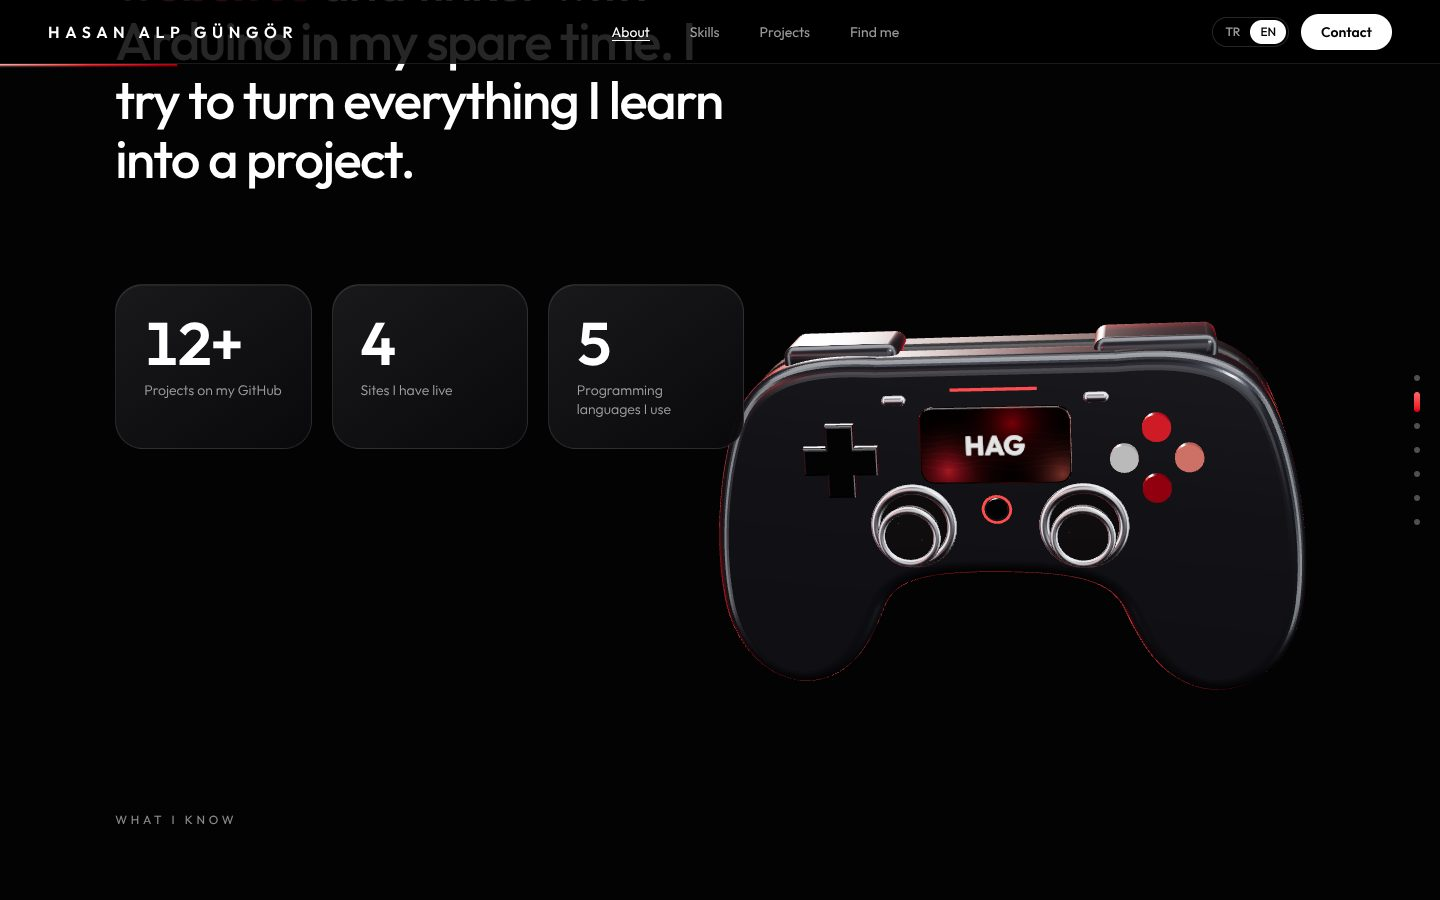
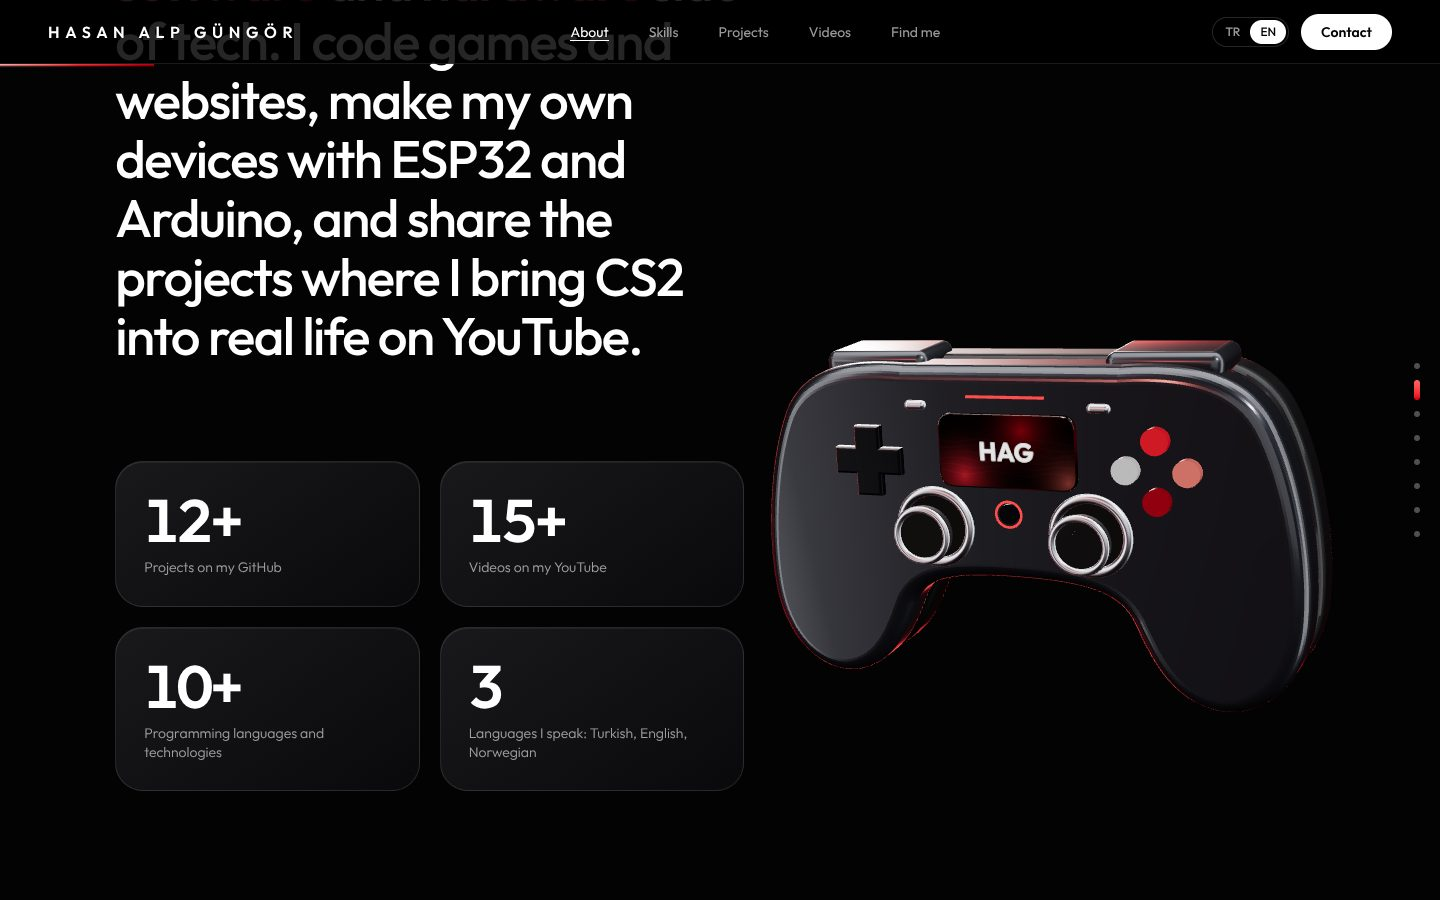
Videolarım bölümü, gerçek yetenekler ve yeni projeler
Hakkımda yazısı ve yetenekler LinkedIn profiline göre güncellendi. YouTube videoları için yeni bölüm eklendi; Norveç Milli Takımı web konsepti ve Mağaza Satış Analiz Programı projelere eklendi.

diff --git a/lib/data.ts b/lib/data.ts
@@ -83,6 +83,17 @@ export interface Project {
 
 export const PROJECTS: Project[] = [
   {
+    name: 'Norway National Team Web Concept',
+    href: `${LINKS.linkedin}recent-activity/all/`,
+    tag: { tr: 'Web tasarım', en: 'Web design' },
+    text: {
+      tr: 'Norveç Milli Futbol Takımı\'nın dijital kimliğini yeniden düşündüğüm bir web sitesi konsepti.',
+      en: 'A website concept where I reimagined the digital identity of the Norwegian national football team.',
+    },
+    stack: ['Web Design', 'UI'],
+    accent: '#ef4444',
+  },
+  {
     name: 'CS2 Major HUD',
     href: `${GH}/CounterStrike2MajorHUD`,
     tag: { tr: 'Oyun · Yayın', en: 'Games · Broadcast' },
@@ -126,6 +137,17 @@ export const PROJECTS: Project[] = [
     stack: ['Batch', 'Windows'],
     accent: '#fca5a5',
   },
+  {
+    name: 'Mağaza Satış Analiz Programı',
+    href: `${LINKS.youtube}/search?query=${encodeURIComponent('Mağaza Satış Analiz')}`,
+    tag: { tr: 'Masaüstü', en: 'Desktop' },
+    text: {
+      tr: 'C# programlama temelleri dersi için yazdığım, mağaza satışlarını analiz eden bir program. Anlatım videosu YouTube\'da.',
+      en: 'A program that analyses store sales, written for my C# fundamentals course. The walkthrough is on YouTube.',
+    },
+    stack: ['C#'],
+    accent: '#b91c1c',
+  },
 ];
 
 /** Repos without a public description: listed by name only. */
@@ -138,13 +160,34 @@ export const MORE_REPOS = [
 
 /** One skill per controller part; the Skills section and the 3D labels share this list. */
 export const PARTS = [
-  { id: 'screen', title: { tr: 'Arayüz ve animasyon', en: 'UI and animation' }, text: { tr: 'GSAP, Tailwind CSS', en: 'GSAP, Tailwind CSS' } },
-  { id: 'stickL', title: { tr: 'TypeScript ve React', en: 'TypeScript and React' }, text: { tr: 'Next.js', en: 'Next.js' } },
-  { id: 'stickR', title: { tr: '3D grafik', en: '3D graphics' }, text: { tr: 'Three.js, React Three Fiber', en: 'Three.js, React Three Fiber' } },
-  { id: 'dpad', title: { tr: 'Python ve C#', en: 'Python and C#' }, text: { tr: 'Masaüstü uygulamalar ve araçlar', en: 'Desktop apps and tools' } },
-  { id: 'buttons', title: { tr: 'Oyun geliştirme', en: 'Game development' }, text: { tr: 'itch.io\'da yayınlanan oyunlar', en: 'Games published on itch.io' } },
-  { id: 'pcb', title: { tr: 'Gömülü sistemler', en: 'Embedded systems' }, text: { tr: 'Arduino, sensörler', en: 'Arduino, sensors' } },
+  { id: 'screen', title: { tr: 'Web', en: 'Web' }, text: { tr: 'HTML5, CSS, JavaScript, TypeScript', en: 'HTML5, CSS, JavaScript, TypeScript' } },
+  { id: 'stickL', title: { tr: 'C# ve Java', en: 'C# and Java' }, text: { tr: 'Masaüstü uygulamalar', en: 'Desktop apps' } },
+  { id: 'stickR', title: { tr: '3D ve arayüz', en: '3D and UI' }, text: { tr: 'React, Next.js, Three.js', en: 'React, Next.js, Three.js' } },
+  { id: 'dpad', title: { tr: 'Python ve C++', en: 'Python and C++' }, text: { tr: 'Araçlar ve mikrodenetleyiciler', en: 'Tools and microcontrollers' } },
+  { id: 'buttons', title: { tr: 'Oyun geliştirme', en: 'Game development' }, text: { tr: 'Lua, oyun programlama ve tasarım', en: 'Lua, game programming and design' } },
+  { id: 'pcb', title: { tr: 'Donanım', en: 'Hardware' }, text: { tr: 'ESP32, Arduino, MPU-6050', en: 'ESP32, Arduino, MPU-6050' } },
   { id: 'back', title: { tr: 'Backend', en: 'Backend' }, text: { tr: 'PHP, SQL', en: 'PHP, SQL' } },
 ] as const satisfies readonly { id: string; title: Localized; text: Localized }[];
 
 export type PartId = (typeof PARTS)[number]['id'];
+
+const YT_SEARCH = (q: string) => `${LINKS.youtube}/search?query=${encodeURIComponent(q)}`;
+
+export interface Video {
+  title: Localized;
+  tag: Localized;
+  href: string;
+}
+
+/** A selection from the YouTube channel; each links to a channel search for its title. */
+export const VIDEOS: Video[] = [
+  { title: { tr: 'Gerçek hayatta StatTrak Deagle yaptım', en: 'I made a real-life StatTrak Deagle' }, tag: { tr: 'CS2 × Donanım', en: 'CS2 × Hardware' }, href: YT_SEARCH('stattrak deagle') },
+  { title: { tr: 'CS2 ama bombayı gerçekten imha ediyorum (ESP32 ile)', en: 'CS2, but I really defuse the bomb (with ESP32)' }, tag: { tr: 'CS2 × ESP32', en: 'CS2 × ESP32' }, href: YT_SEARCH('bombayı gerçekten imha') },
+  { title: { tr: 'CS2 ama gerçekten flash yiyorum', en: 'CS2, but I really get flashed' }, tag: { tr: 'CS2 × Donanım', en: 'CS2 × Hardware' }, href: YT_SEARCH('gerçekten flash') },
+  { title: { tr: 'Akıllı airsoft hedefi yaptım (ESP32 ile)', en: 'I built a smart airsoft target (with ESP32)' }, tag: { tr: 'ESP32', en: 'ESP32' }, href: YT_SEARCH('airsoft hedefi') },
+  { title: { tr: 'Kendi ambilight\'ımı yaptım (ESP32 ile)', en: 'I built my own Ambilight (with ESP32)' }, tag: { tr: 'ESP32', en: 'ESP32' }, href: YT_SEARCH('ambilight') },
+  { title: { tr: 'Assetto Corsa\'ya gerçek radyo bağladım', en: 'I connected a real radio to Assetto Corsa' }, tag: { tr: 'Simülasyon × Donanım', en: 'Sim racing × Hardware' }, href: YT_SEARCH('assetto corsa radyo') },
+  { title: { tr: 'Major arayüzünü kodladım', en: 'I coded a Major broadcast HUD' }, tag: { tr: 'CS2 × Yazılım', en: 'CS2 × Software' }, href: YT_SEARCH('major arayüzü') },
+  { title: { tr: 'AK-47 ile CS2 oynadım', en: 'I played CS2 with an AK-47' }, tag: { tr: 'CS2', en: 'CS2' }, href: YT_SEARCH('AK-47 ile CS2') },
+  { title: { tr: 'Tüm oyunlar için tek tuşla DLSS 5 kurulumu', en: 'One-click DLSS 5 setup for every game' }, tag: { tr: 'Rehber', en: 'Guide' }, href: YT_SEARCH('DLSS 5') },
+];

diff --git a/components/Videos.tsx b/components/Videos.tsx
@@ -1,0 +1,58 @@
+'use client';
+
+import { ArrowIcon, YouTubeIcon } from '@/components/Icons';
+import { LINKS, VIDEOS } from '@/lib/data';
+import { useT } from '@/lib/i18n';
+
+export default function Videos() {
+  const t = useT();
+
+  return (
+    <section id="videos" className="sg-ambient amb-red relative z-10 bg-[#030303] px-6 lg:px-[8%] py-24 lg:py-36">
+      <div className="max-w-7xl mx-auto grid lg:grid-cols-[minmax(0,5fr)_minmax(0,7fr)] gap-10 lg:gap-16">
+        <div className="lg:sticky lg:top-28 lg:self-start">
+          <p className="sg-eyebrow mb-3 lg:mb-5">{t({ tr: 'Videolarım', en: 'My videos' })}</p>
+          <h2 className="sg-title">
+            {t({ tr: "CS2'yi gerçek hayata ", en: 'Bringing CS2 into ' })}
+            <strong className="sg-ai">{t({ tr: 'taşıyorum.', en: 'real life.' })}</strong>
+          </h2>
+          <p className="sg-lead mt-4 lg:mt-6 max-w-md">
+            {t({
+              tr: "YouTube kanalımda ESP32 ile yaptığım cihazları, CS2'yi gerçek dünyaya bağlayan projelerimi ve oyun rehberlerimi paylaşıyorum.",
+              en: 'On my YouTube channel I share devices I build with ESP32, projects that connect CS2 to the real world, and gaming guides.',
+            })}
+          </p>
+          <a href={LINKS.youtube} target="_blank" rel="noopener noreferrer" className="sg-btn mt-8">
+            <YouTubeIcon className="w-5 h-5" />
+            {t({ tr: 'Kanala git', en: 'Visit the channel' })}
+            <ArrowIcon />
+          </a>
+        </div>
+
+        <ol className="sg-card !rounded-[28px] divide-y divide-white/[0.07] overflow-hidden">
+          {VIDEOS.map((v, i) => (
+            <li key={v.href}>
+              <a
+                href={v.href}
+                target="_blank"
+                rel="noopener noreferrer"
+                className="group flex items-center gap-4 lg:gap-6 px-5 py-4 lg:px-7 lg:py-5 transition-colors hover:bg-white/[0.04]"
+              >
+                <span className="w-6 shrink-0 text-xs tabular-nums text-white/35">{String(i + 1).padStart(2, '0')}</span>
+                <span className="flex-1 min-w-0">
+                  <span className="block text-base lg:text-lg font-medium leading-snug">{t(v.title)}</span>
+                  <span className="block mt-1 text-xs text-red-400/80">{t(v.tag)}</span>
+                </span>
+                <span className="w-9 h-9 shrink-0 rounded-full border border-white/15 flex items-center justify-center text-white/70 transition-all group-hover:bg-red-500 group-hover:border-red-500 group-hover:text-white">
+                  <svg width="10" height="10" viewBox="0 0 14 14" aria-hidden>
+                    <path d="M3 1.5v11l9.5-5.5z" fill="currentColor" />
+                  </svg>
+                </span>
+              </a>
+            </li>
+          ))}
+        </ol>
+      </div>
+    </section>
+  );
+}

diff --git a/components/About.tsx b/components/About.tsx
@@ -10,14 +10,15 @@ gsap.registerPlugin(ScrollTrigger);
 
 /** Words wrapped in *stars* get the gradient. */
 const MANIFESTO: Localized = {
-  tr: "Ben Hasan. İzmir Ekonomi Üniversitesi'nde Bilgisayar Programcılığı okuyorum. *Oyun* geliştiriyorum, *web siteleri* yapıyorum, boş zamanlarımda da Arduino ile bir şeyler kuruyorum. Öğrendiğim her şeyi bir projeye dönüştürmeye çalışıyorum.",
-  en: "I'm Hasan. I study Computer Programming at İzmir University of Economics. I develop *games*, build *websites* and tinker with Arduino in my spare time. I try to turn everything I learn into a project.",
+  tr: "İzmir Ekonomi Üniversitesi'nde Bilgisayar Programcılığı okuyorum ve teknolojinin hem *yazılım* hem *donanım* tarafında projeler üretiyorum. Oyunlar ve web siteleri kodluyorum, ESP32 ve Arduino ile kendi cihazlarımı yapıyorum. YouTube'da da CS2'yi gerçek hayata taşıdığım projelerimi paylaşıyorum.",
+  en: "I study Computer Programming at İzmir University of Economics and build projects on both the *software* and *hardware* side of tech. I code games and websites, make my own devices with ESP32 and Arduino, and share the projects where I bring CS2 into real life on YouTube.",
 };
 
 const STATS: { value: number; suffix?: string; label: Localized }[] = [
   { value: 12, suffix: '+', label: { tr: "GitHub'daki projem", en: 'Projects on my GitHub' } },
-  { value: 4, label: { tr: 'Yayındaki sitem', en: 'Sites I have live' } },
-  { value: 5, label: { tr: 'Kullandığım programlama dili', en: 'Programming languages I use' } },
+  { value: 15, suffix: '+', label: { tr: "YouTube'daki videom", en: 'Videos on my YouTube' } },
+  { value: 10, suffix: '+', label: { tr: 'Programlama dili ve teknoloji', en: 'Programming languages and technologies' } },
+  { value: 3, label: { tr: 'Konuştuğum dil: Türkçe, İngilizce, Norveççe', en: 'Languages I speak: Turkish, English, Norwegian' } },
 ];
 
 function Counter({ value, suffix = '' }: { value: number; suffix?: string }) {
@@ -88,7 +89,7 @@ export default function About() {
           </p>
         </div>
 
-        <div className="mt-16 lg:mt-24 lg:max-w-[52%] grid grid-cols-2 lg:grid-cols-3 gap-3 lg:gap-5">
+        <div className="mt-16 lg:mt-24 lg:max-w-[52%] grid grid-cols-2 gap-3 lg:gap-5">
           {STATS.map((s) => (
             <div key={s.label.en} className="sg-card p-5 lg:p-7 !bg-[#0b0b0d]/80">
               <p className="text-4xl lg:text-6xl font-semibold tracking-[-0.04em]">

diff --git a/components/Channels.tsx b/components/Channels.tsx
@@ -29,7 +29,7 @@ const CHANNELS: {
     handle: '@hasanalpgungor',
     href: LINKS.youtube,
     Icon: YouTubeIcon,
-    text: { tr: 'Videolarımı burada paylaşıyorum.', en: 'This is where I post my videos.' },
+    text: { tr: 'CS2 × donanım projeleri, ESP32 yapımları ve rehberler.', en: 'CS2 × hardware projects, ESP32 builds and guides.' },
     cta: { tr: 'Kanalım', en: 'My channel' },
     glow: 'radial-gradient(70% 70% at 80% 10%, rgba(255, 46, 59, 0.26), transparent 70%)',
     big: true,
@@ -48,7 +48,7 @@ const CHANNELS: {
     handle: 'Hasan Alp Güngör',
     href: LINKS.linkedin,
     Icon: LinkedInIcon,
-    text: { tr: 'Eğitimim ve profesyonel profilim.', en: 'My education and professional profile.' },
+    text: { tr: 'Eğitimim, yeteneklerim ve paylaşımlarım.', en: 'My education, skills and posts.' },
     cta: { tr: 'Profilim', en: 'My profile' },
     glow: 'radial-gradient(70% 70% at 80% 10%, rgba(239, 68, 68, 0.22), transparent 70%)',
   },
@@ -58,7 +58,7 @@ export default function Channels() {
   const t = useT();
 
   return (
-    <section id="channels" className="sg-ambient amb-red relative z-10 bg-[#030303] px-6 lg:px-[8%] py-24 lg:py-36">
+    <section id="channels" className="sg-ambient amb-ember relative z-10 bg-[#030303] px-6 lg:px-[8%] py-24 lg:py-36">
       <div className="max-w-7xl mx-auto">
         <p className="sg-eyebrow mb-3 lg:mb-5">{t({ tr: 'Beni bul', en: 'Find me' })}</p>
         <h2 className="sg-title max-w-3xl">

diff --git a/components/MoreWork.tsx b/components/MoreWork.tsx
@@ -8,7 +8,7 @@ export default function MoreWork() {
   const t = useT();
 
   return (
-    <section id="more" className="sg-ambient amb-ember relative z-10 bg-[#030303] px-6 lg:px-[8%] py-24 lg:py-36">
+    <section id="more" className="sg-ambient amb-red relative z-10 bg-[#030303] px-6 lg:px-[8%] py-24 lg:py-36">
       <div className="max-w-7xl mx-auto">
         <p className="sg-eyebrow mb-3 lg:mb-5">{t({ tr: 'Diğer projelerim', en: 'More projects' })}</p>
         <h2 className="sg-title max-w-3xl">
@@ -17,8 +17,8 @@ export default function MoreWork() {
         </h2>
         <p className="sg-lead mt-4 lg:mt-6 max-w-xl">
           {t({
-            tr: 'Oyun yayınları için arayüzler, Arduino projeleri ve okulda yazdığım uygulamalar.',
-            en: 'Overlays for game broadcasts, Arduino projects and apps I wrote for school.',
+            tr: 'Web konseptleri, oyun yayınları için arayüzler, Arduino projeleri ve okulda yazdığım uygulamalar.',
+            en: 'Web concepts, overlays for game broadcasts, Arduino projects and apps I wrote for school.',
           })}
         </p>
 

diff --git a/components/Hero.tsx b/components/Hero.tsx
@@ -56,7 +56,7 @@ export default function Hero() {
 
       <p className="hero-in hero-in--3 mt-4 md:mt-6 text-base md:text-2xl font-light text-white/70 max-w-[22ch] md:max-w-none">
         {t({ tr: 'Bilgisayar Programcılığı öğrencisiyim. ', en: "I'm a Computer Programming student. " })}
-        <span className="sg-ai font-semibold">{t({ tr: 'Oyun ve web siteleri yapıyorum.', en: 'I make games and websites.' })}</span>
+        <span className="sg-ai font-semibold">{t({ tr: 'Yazılım ve donanım projeleri üretiyorum.', en: 'I build software and hardware projects.' })}</span>
       </p>
 
       <div className="hero-in hero-in--4 mt-7 md:mt-9 flex flex-wrap items-center justify-center gap-3">

diff --git a/app/layout.tsx b/app/layout.tsx
@@ -10,7 +10,7 @@ const siteUrl = process.env.VERCEL_PROJECT_PRODUCTION_URL
 
 const title = 'Hasan Alp Güngör';
 const description =
-  "I'm Hasan Alp Güngör, a Computer Programming student at İzmir University of Economics. I make games and websites. Here are my projects and where to find me.";
+  "I'm Hasan Alp Güngör, a Computer Programming student at İzmir University of Economics, game developer and software enthusiast. I build software and hardware projects and share them on YouTube.";
 
 export const metadata: Metadata = {
   metadataBase: new URL(siteUrl),

diff --git a/app/page.tsx b/app/page.tsx
@@ -14,6 +14,7 @@ import ScrollProgress from '@/components/ScrollProgress';
 import SectionDots from '@/components/SectionDots';
 import Skills from '@/components/Skills';
 import SmoothScroll from '@/components/SmoothScroll';
+import Videos from '@/components/Videos';
 import Work from '@/components/Work';
 
 // WebGL only exists in the browser.
@@ -49,6 +50,7 @@ export default function Home() {
 
         <Work />
         <MoreWork />
+        <Videos />
         <Channels />
         <Contact />
       </main>

diff --git a/lib/sections.ts b/lib/sections.ts
@@ -13,6 +13,7 @@ export const SECTIONS: SectionInfo[] = [
   { id: 'skills', label: { tr: 'Yetenekler', en: 'Skills' }, nav: true },
   { id: 'work', label: { tr: 'Projelerim', en: 'Projects' }, nav: true },
   { id: 'more', label: { tr: 'Diğer projelerim', en: 'More projects' } },
+  { id: 'videos', label: { tr: 'Videolarım', en: 'Videos' }, nav: true },
   { id: 'channels', label: { tr: 'Beni bul', en: 'Find me' }, nav: true },
   { id: 'contact', label: { tr: 'İletişim', en: 'Contact' } },
 ];

diff --git a/README.md b/README.md
@@ -1,6 +1,6 @@
 # Hasan Alp Güngör — Portfolio
 
-My personal site. It introduces me, my skills and my projects, with a real-time 3D game controller I modeled entirely in code (no downloaded 3D files). Scroll and it turns, then comes apart part by part, and every part is one of my skills.
+My personal site. It introduces me, my skills, my projects and my videos, with a real-time 3D game controller I modeled entirely in code (no downloaded 3D files). Scroll and it turns, then comes apart part by part, and every part is one of my skills.
 
 ![Hero](docs/screenshots/desktop-hero.jpg)
 
@@ -9,6 +9,7 @@ My personal site. It introduces me, my skills and my projects, with a real-time 
 - **A controller built in code:** the shells, circuit board, glass screen, thumbsticks, d-pad, face buttons and bumpers are all generated with three.js (extruded bezier outlines and canvas textures).
 - **Scroll story:** the controller moves aside for the intro, then explodes into layers with a label pinned to each part, turns around, and flies away.
 - **Drag to spin** in the hero, with inertia and a soft snap back.
+- **My videos:** a selection from my YouTube channel, where I bring CS2 into real life with ESP32 builds.
 - **My projects:** a pinned, horizontally scrolling gallery of my S26 Ultra, Buds4 Pro, Watch Ultra2 and Ring concept sites.
 - **Turkish and English:** switch from the navbar; the choice is remembered.
 - Loader that draws the controller outline, section dots, scroll progress and ambient lighting per section.
